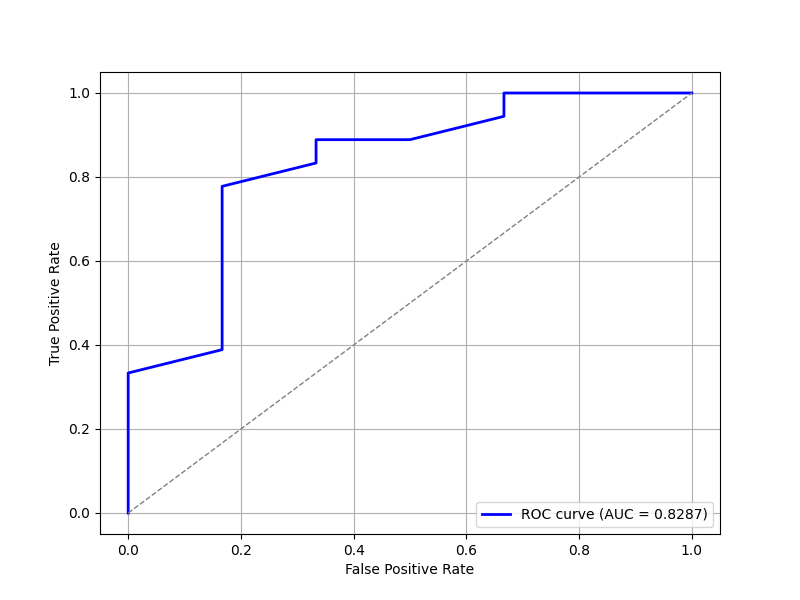
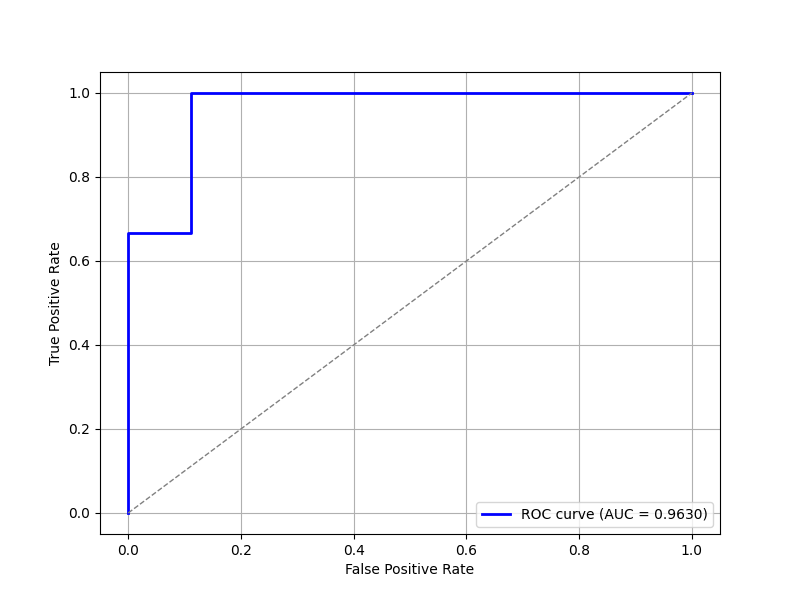
binarization, zero padding

diff --git a/implicit/cpu/als.py b/implicit/cpu/als.py
@@ -53,8 +53,6 @@ class AlternatingLeastSquares(MatrixFactorizationBase):
     random_state : int, numpy.random.RandomState, np.random.Generator or None, optional
         The random state for seeding the initial item and user factors.
         Default is None.
-    gamma : float, optional
-        The gamma hyperparameter to scale the embedding size
 
     Attributes
     ----------
@@ -76,7 +74,6 @@ class AlternatingLeastSquares(MatrixFactorizationBase):
         calculate_training_loss=True,
         num_threads=0,
         random_state=None,
-        gamma=0.2,
     ):
         super().__init__(num_threads=num_threads)
 
@@ -84,7 +81,6 @@ class AlternatingLeastSquares(MatrixFactorizationBase):
         self.factors = factors
         self.regularization = regularization
         self.alpha = alpha
-        self.gamma = gamma
 
         # options on how to fit the model
         self.dtype = np.dtype(dtype)
@@ -95,6 +91,7 @@ class AlternatingLeastSquares(MatrixFactorizationBase):
         self.fit_callback = None
         self.cg_steps = 3
         self.random_state = random_state
+
 
         # cache for item factors squared
         self._YtY = None
@@ -108,7 +105,7 @@ class AlternatingLeastSquares(MatrixFactorizationBase):
 
         check_blas_config()
 
-    def fit(self, user_items, show_progress=True, callback=None):
+    def fit(self, user_items, show_progress=True, callback=None, gamma=0.2, xavier_init=None, zero_padding=True, min_embedding=1):
         """Factorizes the user_items matrix.
 
         After calling this method, the members 'user_factors' and 'item_factors' will be
@@ -134,6 +131,15 @@ class AlternatingLeastSquares(MatrixFactorizationBase):
             Whether to show a progress bar during fitting
         callback: Callable, optional
             Callable function on each epoch with such arguments as epoch, elapsed time and progress
+        gamma : float, optional
+            The hyperparameter to scale the embedding size
+        xavier_init: string, optional
+            Type of matrix initialization to use. If set to None uses default random initialization,
+            other options are "normal" and "uniform"
+        zero_padding: bool, optional
+            Whether to pad adaptive embeddings with zeroes
+        min_embedding: int, optional
+            Minimal embedding size when training with adaptive embeddings
         """
         # initialize the random state
         random_state = check_random_state(self.random_state)
@@ -155,37 +161,52 @@ class AlternatingLeastSquares(MatrixFactorizationBase):
         s = time.time()
         # Initialize the variables randomly if they haven't already been set
         if self.user_factors is None:
-            self.user_factors = random_state.random((users, self.factors), dtype=self.dtype) * 0.01
+            if xavier_init is None:
+                self.user_factors = random_state.random((users, self.factors), dtype=self.dtype) * 0.01
+            elif xavier_init == "normal":
+                self.user_factors = random_state.normal(loc=0, scale=np.sqrt(2/(self.factors+items)), size=(users, self.factors)).astype(np.float32)
+            elif xavier_init == "uniform":
+                scale = np.sqrt(6/(self.factors+items))
+                self.user_factors = random_state.uniform(low=-scale, high=scale, size=(users, self.factors)).astype(np.float32)
+
         if self.item_factors is None:
-            self.item_factors = random_state.random((items, self.factors), dtype=self.dtype) * 0.01
+            if xavier_init is None:
+                self.item_factors = random_state.random((items, self.factors), dtype=self.dtype) * 0.01
+            elif xavier_init == "normal":
+                self.item_factors = random_state.normal(loc=0, scale=np.sqrt(2/(self.factors+users)), size=(items, self.factors)).astype(np.float32)
+            elif xavier_init == "uniform":
+                scale = np.sqrt(6/(self.factors+users))
+                self.item_factors = random_state.uniform(low=-scale, high=scale, size=(items, self.factors)).astype(np.float32)
 
         log.debug("Initialized factors in %s", time.time() - s)
 
+# --------------------------------------------------------------------------------------------------
+        if zero_padding:
+            user_interactions = Ciu.getnnz(axis=0)
+            item_interactions = Ciu.getnnz(axis=1)
+            fu_med = np.median(user_interactions)
+            fi_med = np.median(item_interactions)
+            self._du = np.round(user_interactions / (gamma * fu_med)).astype(np.int32)
+            self._di = np.round(item_interactions / (gamma * fi_med)).astype(np.int32)
 
-        print(users, items)
-        # Separate by popularity bins
-        user_interactions = Ciu.getnnz(axis=0)
-        print(user_interactions)
-        item_interactions = Ciu.getnnz(axis=1)
-        print(item_interactions)
-        fu_med = np.median(user_interactions)
-        fi_med = np.median(item_interactions)
-        d_u = np.round(user_interactions / (self.gamma * fu_med)).astype(np.int32)
-        d_i = np.round(item_interactions / (self.gamma * fi_med)).astype(np.int32)
+            for u in range(users):
+                if self._du[u] < self.factors:
+                    if self._du[u] == 0: self._du[u] = min_embedding
+                    self.user_factors[u,self._du[u]:] = 0.0
+                else:
+                    self._du[u] = self.factors
 
-        for u in range(users):
-            if d_u[u] < self.factors:
-                if d_u[u] == 0: d_u[u] = 1
-                self.user_factors[u,d_u[u]:] = 0.0
+            for i in range(items):
+                if self._di[i] < self.factors:
+                    if self._di[i] == 0: self._di[i] = min_embedding
+                    self.item_factors[i,self._di[i]:] = 0.0
+                else:
+                    self._di[i] = self.factors
 
-        for i in range(items):
-            if d_i[i] < self.factors:
-                if d_i[i] == 0: d_i[i] = 1
-                self.item_factors[i,d_i[i]:] = 0.0
+            print(f"Small user embedding after padding: {sum(self._du<self.factors)}/{len(self._du)}")
+            print(f"Small item embedding after padding: {sum(self._di<self.factors)}/{len(self._di)}")
         
-        print(self.user_factors)
-        print(self.item_factors)
-
+# --------------------------------------------------------------------------------------------------
         # invalidate cached norms and squared factors
         self._item_norms = self._user_norms = None
         self._YtY = None
@@ -206,6 +227,8 @@ class AlternatingLeastSquares(MatrixFactorizationBase):
                     self.regularization,
                     num_threads=self.num_threads,
                 )
+                if zero_padding:
+                    pad_with_zeroes(self.user_factors, self._du, self.factors, min_embedding)
                 solver(
                     Ciu,
                     self.item_factors,
@@ -213,6 +236,8 @@ class AlternatingLeastSquares(MatrixFactorizationBase):
                     self.regularization,
                     num_threads=self.num_threads,
                 )
+                if zero_padding:
+                    pad_with_zeroes(self.item_factors, self._di, self.factors, min_embedding)
                 progress.update(1)
 
                 if self.calculate_training_loss:
@@ -279,7 +304,7 @@ class AlternatingLeastSquares(MatrixFactorizationBase):
             num_threads=self.num_threads,
         )
         return user_factors[0] if np.isscalar(userid) else user_factors
-
+    
     def recalculate_item(self, itemid, item_users):
         """Recalculates factors for a batch of items
 
@@ -517,6 +542,11 @@ class AlternatingLeastSquares(MatrixFactorizationBase):
         np.savez(fileobj_or_path, **args)
 
 
+def pad_with_zeroes(X, d_u, d, min_d):
+    for u in range(X.shape[0]):
+        X[u, d_u[u]:] = 0.0
+
+
 def least_squares(Cui, X, Y, regularization, num_threads=0):
     """For each user in Cui, calculate factors Xu for them
     using least squares on Y.
@@ -529,6 +559,7 @@ def least_squares(Cui, X, Y, regularization, num_threads=0):
 
     for u in range(users):
         X[u] = user_factor(Y, YtY, Cui, u, regularization, n_factors)
+        # ------------------------------------------------------------------------------------------------------------------------------------------------------------------
 
 
 def user_linear_equation(Y, YtY, Cui, u, regularization, n_factors):
@@ -559,10 +590,10 @@ def user_factor(Y, YtY, Cui, u, regularization, n_factors):
     return np.linalg.solve(A, b)
 
 
-def item_factor(X, XtX, Cui, u, regularization, n_factors):
-    # Yu = (XtCuX + regularization * I)^-1 (XtCuPu)
-    A, b = user_linear_equation(X, XtX, Cui, u, regularization, n_factors)
-    return np.linalg.solve(A, b)
+# def item_factor(X, XtX, Cui, u, regularization, n_factors):
+#     # Yu = (XtCuX + regularization * I)^-1 (XtCuPu)
+#     A, b = user_linear_equation(X, XtX, Cui, u, regularization, n_factors)
+#     return np.linalg.solve(A, b)
 
 
 def least_squares_cg(Cui, X, Y, regularization, num_threads=0, cg_steps=3):

diff --git a/tests/als_losses_test.py b/tests/als_losses_test.py
@@ -33,39 +33,20 @@ if HAS_CUDA:
 
 
 def test_calculate_loss_simple(use_gpu):
-    if use_gpu:
-        print("gpu loss")
-        calculate_loss = implicit.gpu.als.calculate_loss
 
-    else:
-        print("cpu loss")
-        calculate_loss = implicit.cpu.als.calculate_loss
-
-    # generate_dataset(variant="20m", num_test_ratings=10, eval_percent=0.1, path="/home/kamenskaya-el/adaptive-als/", outputpath="~/adaptive-als/implicit_datasets/")
-    # titles, ratings = get_movielens(variant="20m", split="train")
-    # ratings.data[ratings.data <= 2.0] = -1
+    generate_dataset(variant="100k", num_test_ratings=10, eval_percent=0.1, min_rating=4.0, path="/home/kamenskaya-el/adaptive-als/", outputpath="~/adaptive-als/implicit_datasets/")
+    titles, ratings = get_movielens(variant="100k", split="train")
+    # ratings.data[ratings.data <= 2.0] = 0
     # ratings.data[ratings.data >= 4.0] = 1
     # ratings.data[(ratings.data < 4.0)&(ratings.data > 2.0)] = 0
-    # ratings.eliminate_zeros()
-    # ratings.data = np.ones(len(ratings.data))
-    # user_ratings = ratings.T.tocsr()
-
-    counts = csr_matrix(
-        [
-            [1, 1, 0, 1, 1, 1],
-            [1, 0, 0, 0, 0, 0],
-            [1, 0, 1, 1, 1, 1],
-            [0, 1, 1, 0, 0, 1],
-        ],
-        dtype=np.float32,
-    )
-    user_ratings = counts.T.tocsr()
-
+    ratings.eliminate_zeros()
+    ratings.data = np.ones(len(ratings.data))
+    user_ratings = ratings.T.tocsr()
 
     model = AlternatingLeastSquares(
-        factors=6,
-        regularization=10,
-        iterations=10,
+        factors=40,
+        regularization=0.1,
+        iterations=30,
         dtype=np.float32,
         random_state=23,
         use_native=True,
@@ -73,40 +54,34 @@ def test_calculate_loss_simple(use_gpu):
         use_gpu=use_gpu,
         calculate_training_loss=True,
         alpha=40,
-        gamma=0.02,
     )
 
-    model.fit(user_ratings, show_progress=True)
+    model.fit(user_ratings, show_progress=True,  xavier_init="uniform", gamma=0.02, zero_padding=True, min_embedding=2)
 
     item_factors, user_factors = model.item_factors, model.user_factors
     print(f"Ratings {user_ratings.shape} | User factors {user_factors.shape} | Item factors {item_factors.shape}")
 
-    # _, ratings = get_movielens(variant="20m", split="test")
-    # ratings.data[ratings.data <= 2.0] = -1
+    _, ratings = get_movielens(variant="100k", split="test")
+    # ratings.data[ratings.data <= 2.0] = 0
     # ratings.data[ratings.data >= 4.0] = 1
     # ratings.data[(ratings.data < 4.0)&(ratings.data > 2.0)] = 0
-    # ratings.eliminate_zeros()
-    # ratings.data = np.ones(len(ratings.data))
-    # user_ratings_test = ratings.T.tocsr()
+    ratings.eliminate_zeros()
+    ratings.data = np.ones(len(ratings.data))
+    user_ratings_test = ratings.T.tocsr()
 
-    counts = csr_matrix(
-        [
-            [1, 1, 0, 1, 1, 1],
-            [1, 0, 0, 1, 0, 1],
-            [1, 1, 1, 1, 1, 1],
-            [0, 1, 1, 0, 1, 1],
-        ],
-        dtype=np.float32,
-    )
-    user_ratings_test = counts.T.tocsr()
+    # counts = csr_matrix(
+    #     [
+    #         [4, 1, 0, 2, 5, 3],
+    #         [2, 0, 3, 0, 1, 0],
+    #         [1, 0, 4, 0, 3, 2],
+    #         [0, 5, 0, 4, 0, 5],
+    #     ],
+    #     dtype=np.float32,
+    # )
+    # user_ratings_test = counts.T.tocsr()
 
-    print(f"USER FACTORS NOW: {user_factors}\nITEM FACTORS NOW: {item_factors}")
-
-    print(f"AUC: {implicit.cpu._als.calculate_auc_loss(user_ratings_test, user_factors, item_factors)}")
+    # print(f"AUC: {implicit.cpu._als.calculate_auc_loss(user_ratings_test, user_factors, item_factors)}")
     print(f"RMSE: {implicit.cpu._als.calculate_rmse_loss(user_ratings_test, user_factors, item_factors)}")
-    # print(f"Model cost function train+test (with reg): {calculate_loss(user_ratings+user_ratings_test, user_factors, item_factors, regularization=10)}")
-    # print(f"Model cost function test (with reg): {calculate_loss(user_ratings_test, user_factors, item_factors, regularization=10)}")
-
 
 
 if __name__ == "__main__":

diff --git a/implicit/datasets/movielens.py b/implicit/datasets/movielens.py
@@ -41,7 +41,7 @@ def get_movielens(variant="100k", path="~/adaptive-als/implicit_datasets/", spli
 
 
 
-def generate_dataset(variant="100k", num_test_ratings=10, eval_percent=0.0, path="/home/kamenskaya-el/adaptive-als/", outputpath="~/adaptive-als/implicit_datasets/"):
+def generate_dataset(variant="100k", num_test_ratings=10, eval_percent=0.0, min_rating=4.0, path="/home/kamenskaya-el/adaptive-als/", outputpath="~/adaptive-als/implicit_datasets/"):
     """
         Generates train, test and eval from files as path and saves csv files to outpath
     """
@@ -54,7 +54,7 @@ def generate_dataset(variant="100k", num_test_ratings=10, eval_percent=0.0, path
     else:
         raise ValueError("Variant must be 100k, 20m or 25m")
 
-    split_and_save_csv(ratings, variant, num_test_ratings, outputpath, eval_percent)
+    split_and_save_csv(ratings, variant, num_test_ratings, outputpath, eval_percent, min_rating)
 
 
 def _read_dataframes_100k(path):
@@ -101,16 +101,31 @@ def _read_dataframes(path):
     return ratings, movies
 
 
-def split_and_save_csv(ratings, variant, num_test_ratings, outputpath, eval_percent = 0.0):
+def split_and_save_csv(ratings, variant, num_test_ratings, outputpath, eval_percent = 0.0, min_rating=4.0):
     """
         Splits ratings dataset into train and test with num_test_ratings latest ratings taken from
         each userId in ratings and saved into test dataset and the rest saved into train
     """
 
     assert num_test_ratings < 20, "num_test_ratings must be less than 20, not all users have enough ratings"
-    
+
+    # mapping movieIds
     mapping_dict = {movie_id: idx + 1 for idx, movie_id in enumerate(ratings['movieId'].unique())}
     ratings['movieId'] = ratings['movieId'].map(mapping_dict)
+
+    # binarizing ratings
+    # ratings['rating'] = np.where(ratings['rating'] < min_rating, 0, 1)
+    ratings['rating'] = np.where(ratings['rating'] <= 2.0, -1, ratings['rating'])
+    ratings['rating'] = np.where((ratings['rating'] > 2.0)&(ratings['rating'] < 4.0), 0, ratings['rating'])
+    ratings['rating'] = np.where(ratings['rating'] >= 4.0, 1, ratings['rating'])
+    # dropping userIds with only zeroes
+    grouped = ratings.groupby('userId')
+    mask = grouped['rating'].transform('any') != 0
+    ratings = ratings[mask]
+    # dropping userIds with only zeroes
+    grouped = ratings.groupby('movieId')
+    mask = grouped['rating'].transform('any') != 0
+    ratings = ratings[mask]
 
     test_ratings = ratings.groupby('userId', group_keys=False).apply(lambda x: x.sort_values('timestamp').tail(num_test_ratings))
 

diff --git a/implicit/als.py b/implicit/als.py
@@ -66,7 +66,6 @@ def AlternatingLeastSquares(
             iterations=iterations,
             calculate_training_loss=calculate_training_loss,
             random_state=random_state,
-            gamma=gamma,
         )
     return implicit.cpu.als.AlternatingLeastSquares(
         factors,
